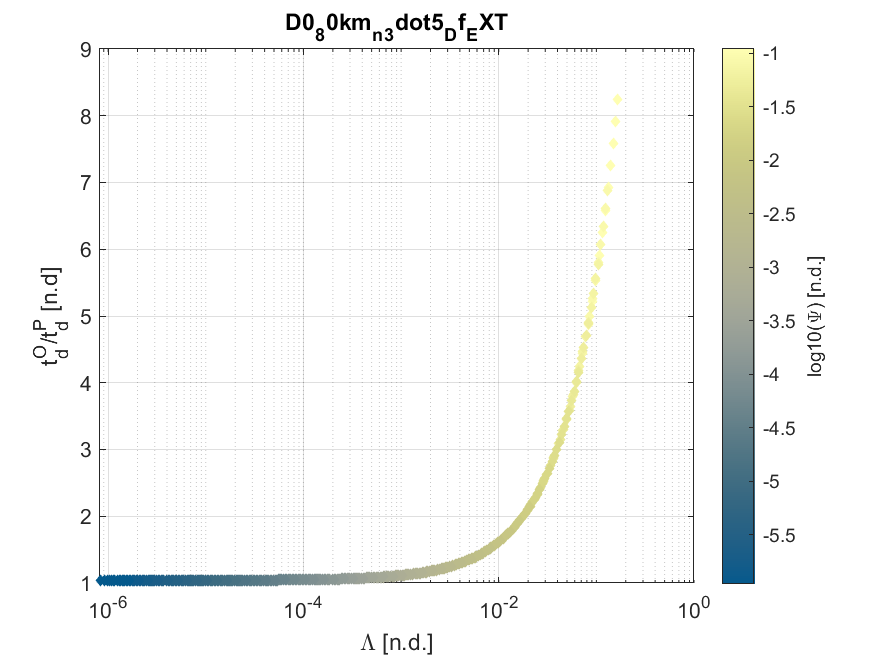
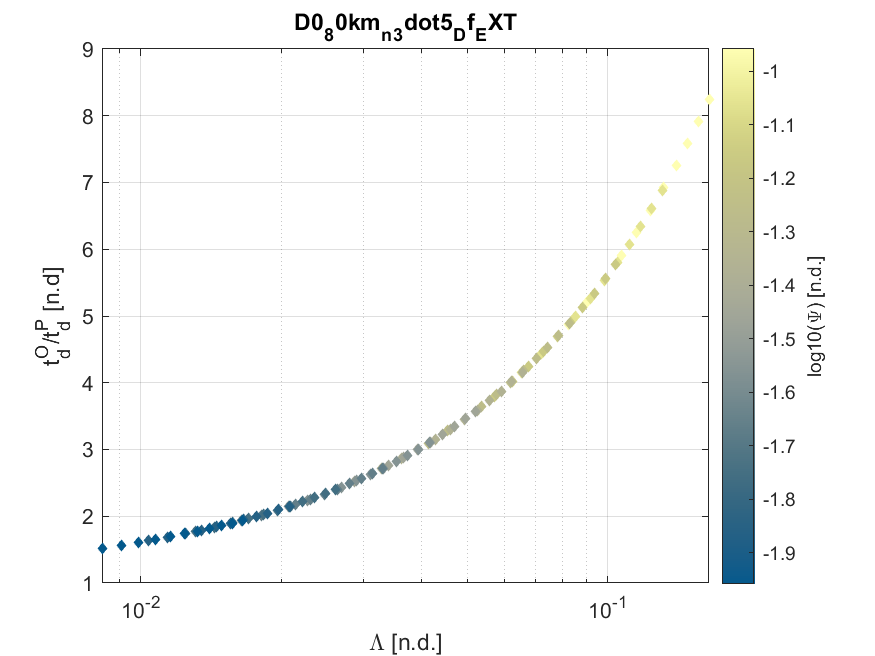
Code seems to be robust
The code seems to be robust. The error systematically depends on the parameter, on the other hand, it is not something related to the internal functions and it may be the solver it self that creates a bit of problem.
If i change the combination of tollerance between dimensional and adimensional solver the error changes, and its magnitude is more or less one order of magnitude less.
Here i need more sophisticated suggestion on how to tune the solver option or to introduce more time step.

diff --git a/Utilities/Run_Simulations.m b/Utilities/Run_Simulations.m
@@ -29,7 +29,8 @@ function [Tests] = Run_Simulations(D0,l0_v,eta0_v,Df_v,n,s0_v,etaum_v,Benchmark)
 [ium,iut0,iuet0,iuL0,iuDf]=ndgrid(etaum_v,s0_v,eta0_v,l0_v,Df_v);
 tic
 n_tests = length(ium(:));
-for i=1:n_tests
+WORK = 4; 
+for (i=1:n_tests)
     etaum = ium(i);
     s0    = iut0(i);
     eta0  = iuet0(i);
@@ -48,6 +49,7 @@ for i=1:n_tests
     Tests.(l_simulation) = Testdata;
     Tests.(l_simulation).Testdata_a=Testdata_a;
     Tests.(l_simulation).initial_data = ID;
+    Tests.(l_simulation).Interpolation = Interpolation; 
     ID = [];
     Testdata = [];
     percentages_test = (i/n_tests)*100;
@@ -67,31 +69,28 @@ function [Interpolation] = Interpolate_Data(Testdata,Testdata_a,Benchmark)
 % Output
 % Interpolation vectors
 %==========================================================================
-if Benchmark ==1 
     D_D = Testdata.D_norm;
     t_D = Testdata.time;
     D_A = Testdata_a.D_norm;
     t_A = Testdata_a.time; 
     D_Di = interp1(t_D,D_D,t_A);
     D_Ai = interp1(t_A,D_A,t_D);
-    error_DA = nanmean(D_D-D_Ai);
-    error_AD = nanmean(D_Di-D_A);
-    disp([':::::::::::::::::::::::::::::::::::::::::::::::::::'])
-    disp(['Errors interpolation are: ']);
-    disp(['Dimensional interpolated to Adimensional:',num2str(error_DA,'%3e')])
-    disp(['ADimensional interpolated to dimensional:',num2str(error_AD, '%3e')])
-    disp(['Error between detected detachment times:',num2str(abs(Testdata_a.t_det-Testdata.t_det),'%3e')])
-    disp(['=================================================='])
-
-    pause(2)
+    error_DA = nanmean(abs(D_D-D_Ai));
+    error_AD = nanmean(abs(D_Di-D_A));
+    if (Benchmark==1)
+        disp([':::::::::::::::::::::::::::::::::::::::::::::::::::'])
+        disp(['Errors interpolation are: ']);
+        disp(['Adimensional interpolated to dimensional:',num2str(error_DA,'%3e')])
+        disp(['Dimensional interpolated to adimensional:',num2str(error_AD, '%3e')])
+        disp(['Error between detected detachment times:',num2str(abs(Testdata_a.t_det-Testdata.t_det),'%3e')])
+        disp(['=================================================='])
+    end
     Interpolation.t_A = t_A; 
     Interpolation.t_D = t_D;
     Interpolation.D_Di = D_Di; 
     Interpolation.D_Ai = D_Ai; 
-    Interpolation.error = [error_DA,error_AD]; 
-else
-    Interpolation = []
-end
+    Interpolation.error_DA = [error_DA,nanmax(abs(D_D-D_Ai)),nanmin(abs(D_D-D_Ai))]; 
+    Interpolation.error_AD = [error_AD,nanmax(abs(D_Di-D_A)),nanmin(abs(D_Di-D_A))]; 
 end
 
 

diff --git a/Utilities/plot_results.m b/Utilities/plot_results.m
@@ -15,6 +15,7 @@ function plot_results(Tests,name,ptsave)
     % function to do scatter plot
     plot_scatter(Data_S,name,ptsave,'t_det');
     plot_scatter(Data_S,name,ptsave,'t_det_error');
+    plot_scatter(Data_S,name,ptsave,'error_gl');
     plot_scatter(Data_S,name,ptsave,'tau_ii');
     plot_scatter(Data_S,name,ptsave,'time_max-time det');
 
@@ -29,7 +30,7 @@ function [Data_S] = Plot_1D_Plots(Tests,name,ptsave)
     % number of test 
     itest = length(fn);
     % Prepare Data_S array
-    Data_S = zeros(7,itest); 
+    Data_S = zeros(10,itest); 
     i = 1;
     for k = 1:numel(fn) 
        
@@ -40,7 +41,10 @@ function [Data_S] = Plot_1D_Plots(Tests,name,ptsave)
        Data_S(4,i) = TD.t_t_max;
        Data_S(5,i) = TD.time_t_M*TD.initial_data.n;
        Data_S(6,i) = TD.t_t_det;
-       Data_S(7,i) = TD.t_det-TD.Testdata_a.t_det; 
+       Data_S(7,i) = abs(TD.t_det-TD.Testdata_a.t_det); 
+       Data_S(8,i) = TD.Interpolation.error_DA(1);
+       Data_S(9,i) = TD.Interpolation.error_DA(2);
+       Data_S(10,i) = TD.Interpolation.error_DA(3);
        i = i+1;
     end
 
@@ -82,6 +86,14 @@ elseif strcmp(field,'t_det_error')
     y = Data_S(7,:);
     ylabel('$t^D_{det}-t^A_{det} [n.d.]$','Interpreter','latex');
     fin = 'Global_test1_error';
+
+
+elseif strcmp(field,'error_gl')
+    x = Data_S(1,:);
+    y = Data_S(8,:);
+    y_err = Data_S(9,:)-Data_S(10,:);
+    ylabel('$error mean,min,max$','Interpreter','latex');
+    fin = 'Global_test1_error_GL';
 end
 figure(1)
 scatter(x,y,20,c,'filled','d')
@@ -89,6 +101,8 @@ hold on
 
 if double >0 
     scatter(x,y2,5,c,'filled','o')
+%elseif strcmp(field,'error_gl')
+ %   errorbar(x,y,y_err,'|r');
 end
 
 try

diff --git a/Script_testing.m b/Script_testing.m
@@ -14,14 +14,14 @@ Benchmark = 1.0 ; % Benchmark activaction flag
 l0_v    = (300e3:30e3:600e3);                 % initial length
 D0      = 80e3;                       % thickness
 % Slab Rheology
-eta0_v = [10.^(22:0.5:24)];                   % [Pas] refernce power law viscosity slab 
+eta0_v = [10.^(22)];                   % [Pas] refernce power law viscosity slab 
 Df_v   = [10.0];                          % [n.d.]viscosity contrast between diffusion and dislocation creep at the reference stress 
-n_v     =[ 3.5];                       % [n.d.] pre-exponential factor
+n_v     =[ 3.5,2.0];                       % [n.d.] pre-exponential factor
 s0_v  = [100e6:100e6:200e6];                   % [Pa]  reference buoyancy stress
 % Upper Mantle
-etaum_v =[10.^(18:0.1:21)];    % [Pa.s]vector of the mantle viscosity
+etaum_v =[10.^(20:0.1:21)];    % [Pa.s]vector of the mantle viscosity
 
-name_tests_v = {'D0_80km_n_3dot5_Df_EXT'};
+name_tests_v = {'D0_80km_n_3dot5_Df_EXT','D0_80km_n_2dot0_Df_EXT'};
 
 ptsave = 'Tests_result';
 

diff --git a/Dimensional/Run_Simulation_Drag.m b/Dimensional/Run_Simulation_Drag.m
@@ -20,7 +20,7 @@ function Testdata = Run_Simulation_Drag(ID,Benchmark)
     % Create function handle 
     Funf_wi = @(t,x,xp0) compute_dragODE(x,xp0,ID,0);
     % Set the option for resolving the system of equation
-    options = odeset('RelTol',1e-8,'NormControl','on','Events',@(t,x,xp0) det_EV(t,x,xp0,ID));
+    options = odeset('RelTol',1e-5,'NormControl','on','Events',@(t,x,xp0) det_EV(t,x,xp0,ID));
     % resolve the system
     [t,D,te,De,ie] = ode15i(Funf_wi,[0 10*ID.tc],ID.D0,dDdt0,options);
     % Normalize the thickness vector
@@ -45,7 +45,10 @@ function [res] = compute_dragODE(D,dDdt,ID,Benchmark)
     % Compute the effective stress 
     [tau_eff,tau_B,tau_D] = Compute_effective_StressD(D,dDdt,ID,Benchmark);
     [eps_eff,eps_dif,eps_dis] = Compute_StrainD(ID,tau_eff,Benchmark);
-    res = -D*(eps_eff)-dDdt;
+    D_ = D/ID.D0;
+    eps_ = eps_eff/ID.ec;
+    dDdt_ = dDdt/(ID.D0/ID.tc);
+    res = -D_*(eps_)-dDdt_;
 end
 
 

diff --git a/Dimensional/Compute_effective_StressD.m b/Dimensional/Compute_effective_StressD.m
@@ -42,7 +42,6 @@ function [tau_eff,tau_B,tau_D] = Compute_effective_StressD(D,dDdt,ID,Benchmark)
             disp(['Bouyancy stress is ',num2str(res_DimB,'%10.5e')])
             disp(['Drag force is ',num2str(res_DimD,'%10.5e')])
             disp([':::::::::::::::::::::::::::::::::::::::::::::::::::'])
-            pause(3)
         end
         
         if (abs(res_DimB)>1e-6 || abs(res_DimD)>1e-6)
